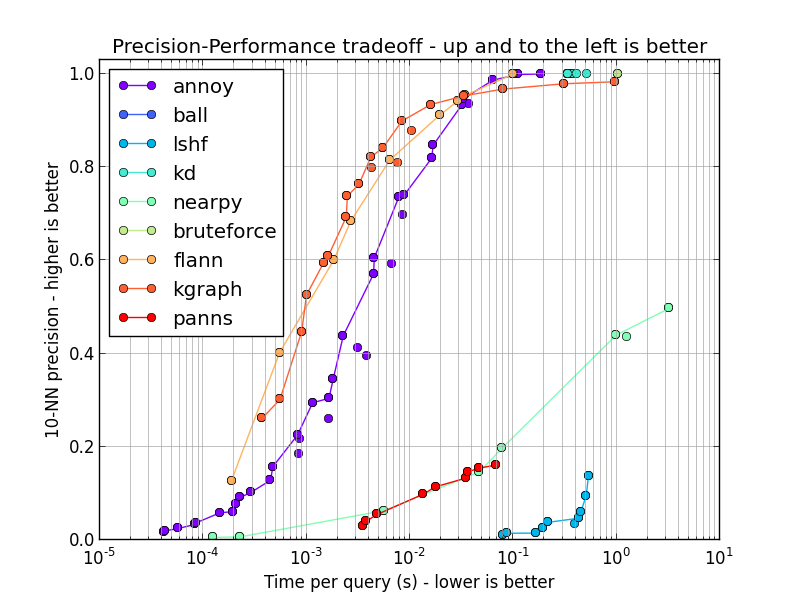
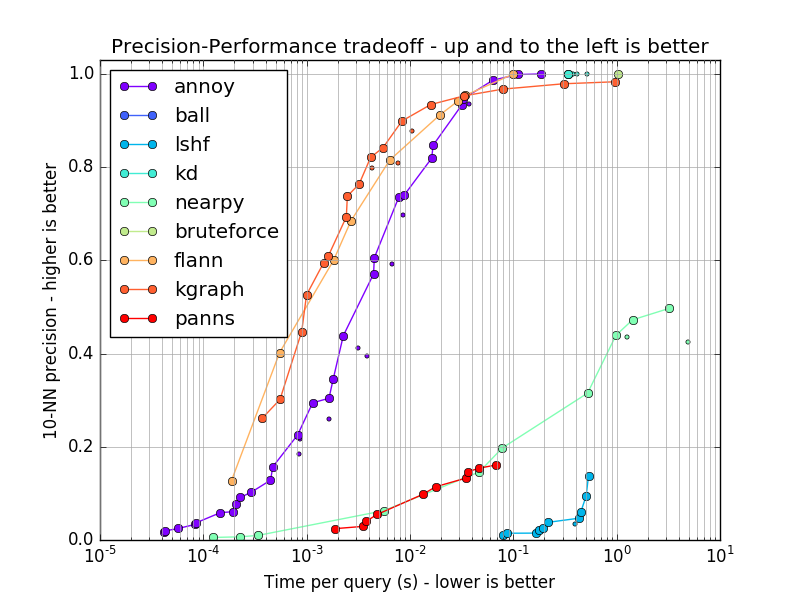
more stats

Changed region(s): [[0.0312, 0.06, 0.9375, 0.99]]

diff --git a/plot.py b/plot.py
@@ -19,7 +19,7 @@ for algo, color in zip(all_data.keys(), colors):
     xs = [t[-2] for t in data]
     ys = [t[-1] for t in data]
     ls = [t[0] for t in data]
-    plt.plot(xs, ys, 'o', label=algo, color=color)
+    plt.plot(xs, ys, 'o', label=algo, color=color, markersize=3)
     #for i, l in enumerate(ls):
     #    plt.annotate(ls[i], (xs[i], ys[i]), color='lightgray', fontsize=8)
 
